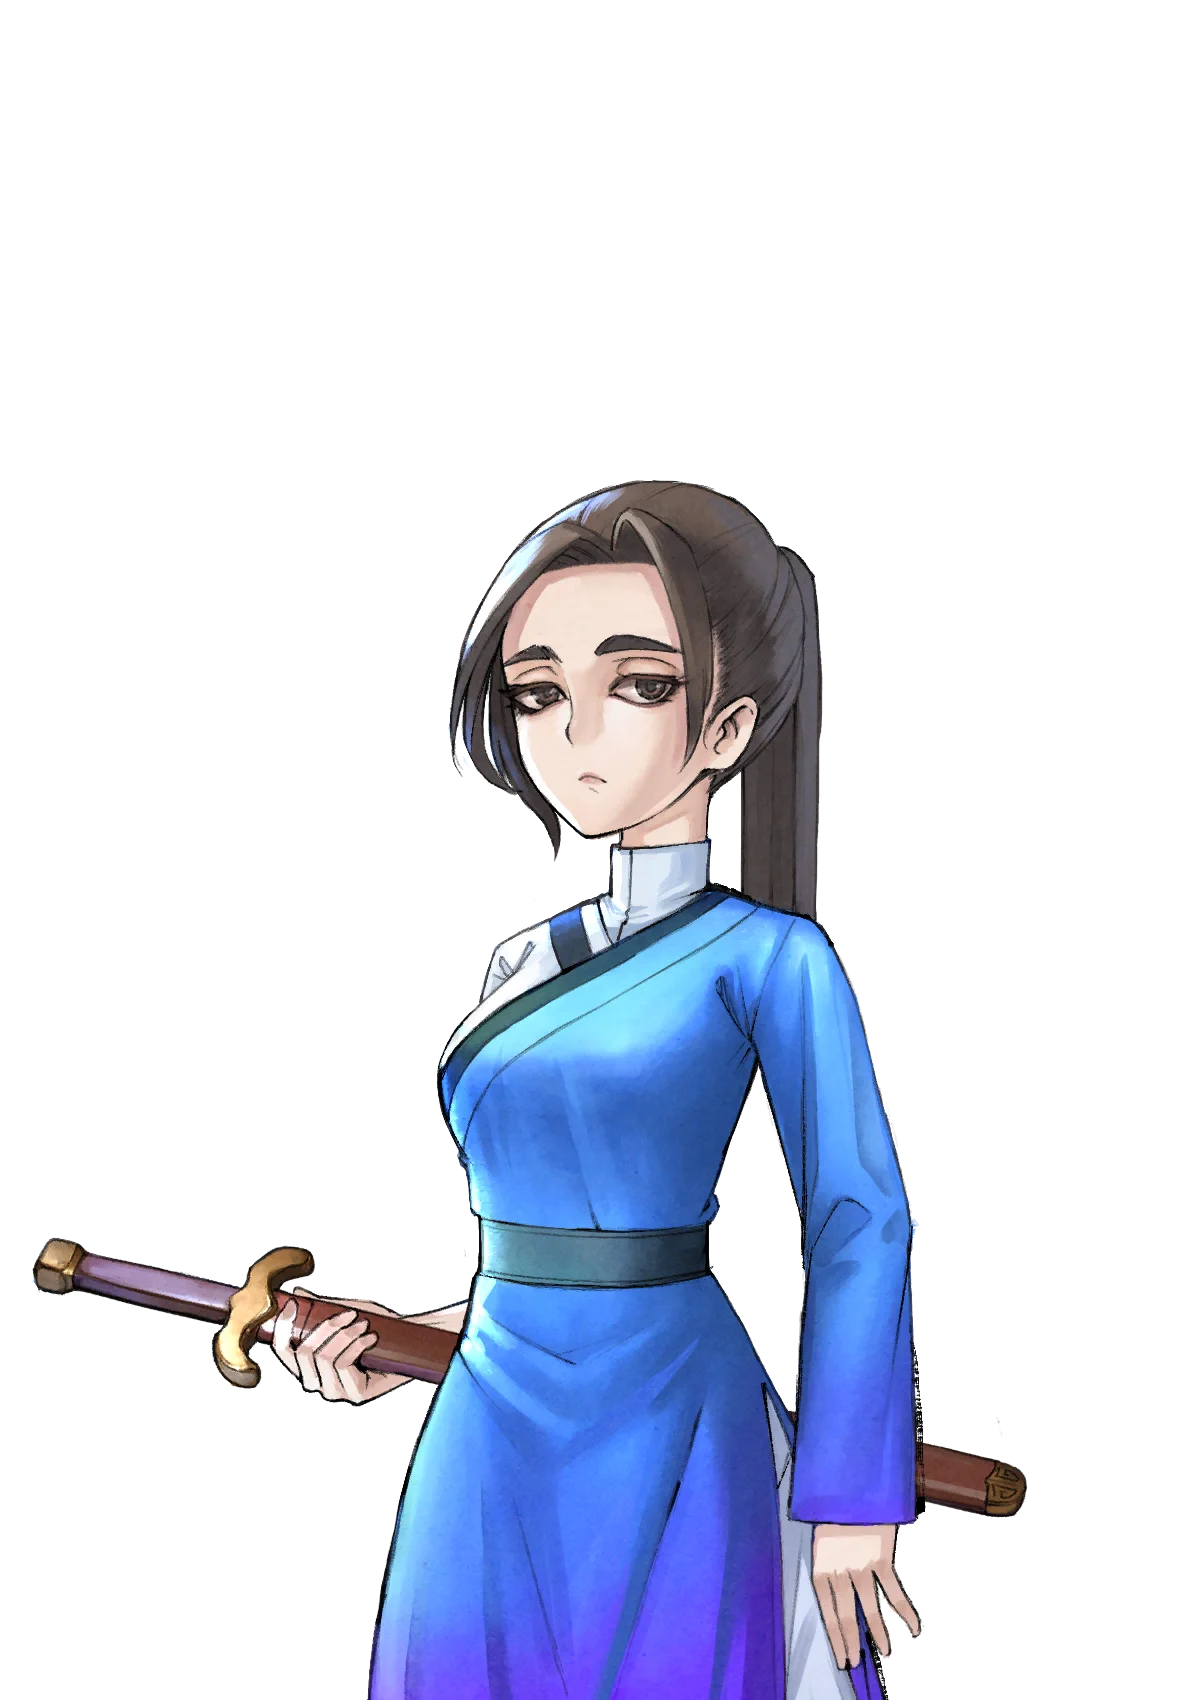
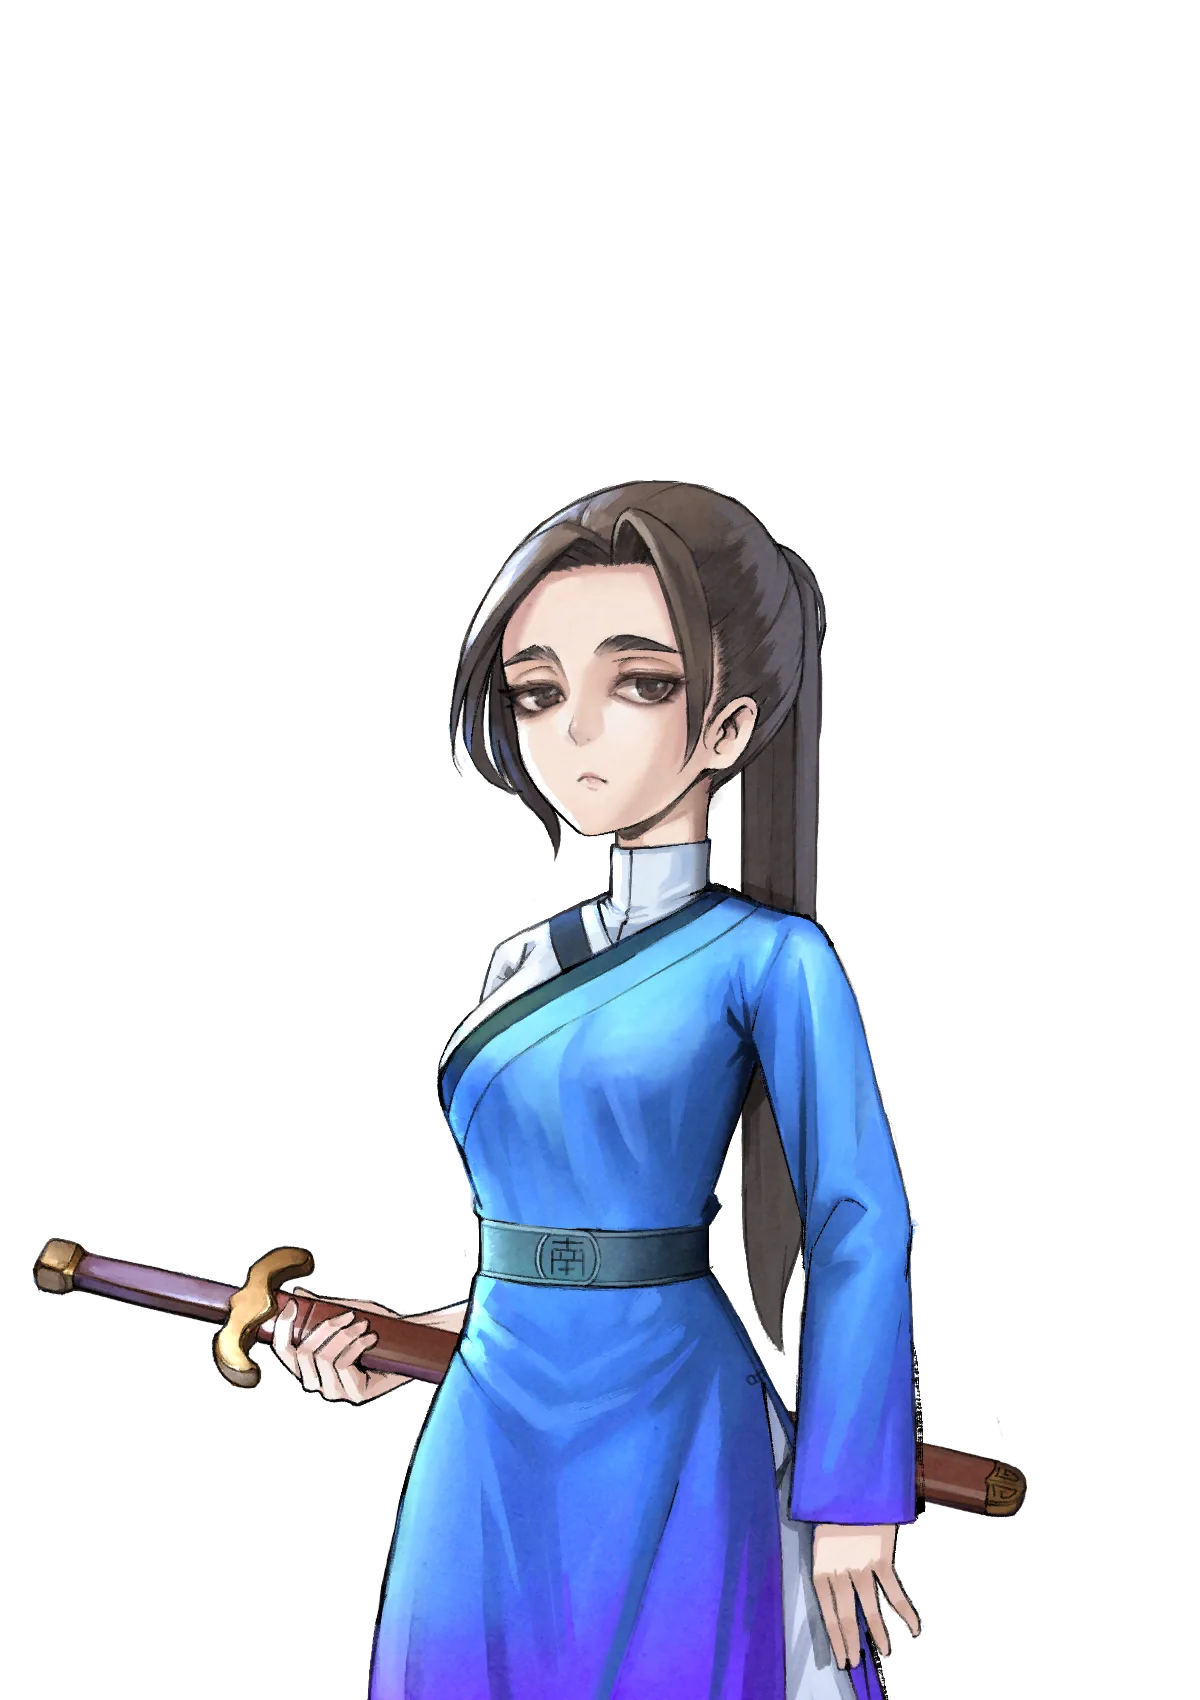
南溪補上 6 個表情分頁並換新版立繪

diff --git a/docs/people/characters/special829.md b/docs/people/characters/special829.md
@@ -35,26 +35,50 @@ tags:
 				</ChTd>
 			</ChTr>
 			<ChTr>
-                <ChTd position='center'>
-                    [[林志恆]] (師弟)
-                </ChTd>
-            </ChTr>
-            <ChTr>
-                <ChTd position='center'>
-                    [[阮蛋]] (師弟)
-                </ChTd>
-            </ChTr>
-            <ChTr>
-                <ChTd position='center'>
-                    [[米歐寬]] (師妹)
-                </ChTd>
-            </ChTr>
-            <ChTr>
-                <ChTd position='center'>
-                    [[陳倔]] (師弟)
-                </ChTd>
-            </ChTr>
+				<ChTd position='center'>
+					[[林志恆]] (師弟)
+				</ChTd>
+			</ChTr>
+			<ChTr>
+				<ChTd position='center'>
+					[[阮蛋]] (師弟)
+				</ChTd>
+			</ChTr>
+			<ChTr>
+				<ChTd position='center'>
+					[[米歐寬]] (師妹)
+				</ChTd>
+			</ChTr>
+			<ChTr>
+				<ChTd position='center'>
+					[[陳倔]] (師弟)
+				</ChTd>
+			</ChTr>
 		</ChTable>
+	</ChTab>
+	<ChTab title="微笑">
+		<Ch src='/images/characters/special829/laugh1.webp' position='center'/>
+		<ChName nameZh='微笑' nameEn='Smile' position='right' />
+	</ChTab>
+	<ChTab title="汗顏">
+		<Ch src='/images/characters/special829/nervous1.webp' position='center'/>
+		<ChName nameZh='汗顏' nameEn='Sweating' position='right' />
+	</ChTab>
+	<ChTab title="驚慌">
+		<Ch src='/images/characters/special829/nervous2.webp' position='center'/>
+		<ChName nameZh='驚慌' nameEn='Panic' position='right' />
+	</ChTab>
+	<ChTab title="害羞">
+		<Ch src='/images/characters/special829/shy.webp' position='center'/>
+		<ChName nameZh='害羞' nameEn='Shy' position='right' />
+	</ChTab>
+	<ChTab title="出招">
+		<Ch src='/images/characters/special829/angry3.webp' position='center'/>
+		<ChName nameZh='出招' nameEn='Ready to Strike' position='right' />
+	</ChTab>
+	<ChTab title="重傷">
+		<Ch src='/images/characters/special829/hurt.webp' position='center'/>
+		<ChName nameZh='重傷' nameEn='Severely Injured' position='right' />
 	</ChTab>
 </ChTabs>
 <br><br>
